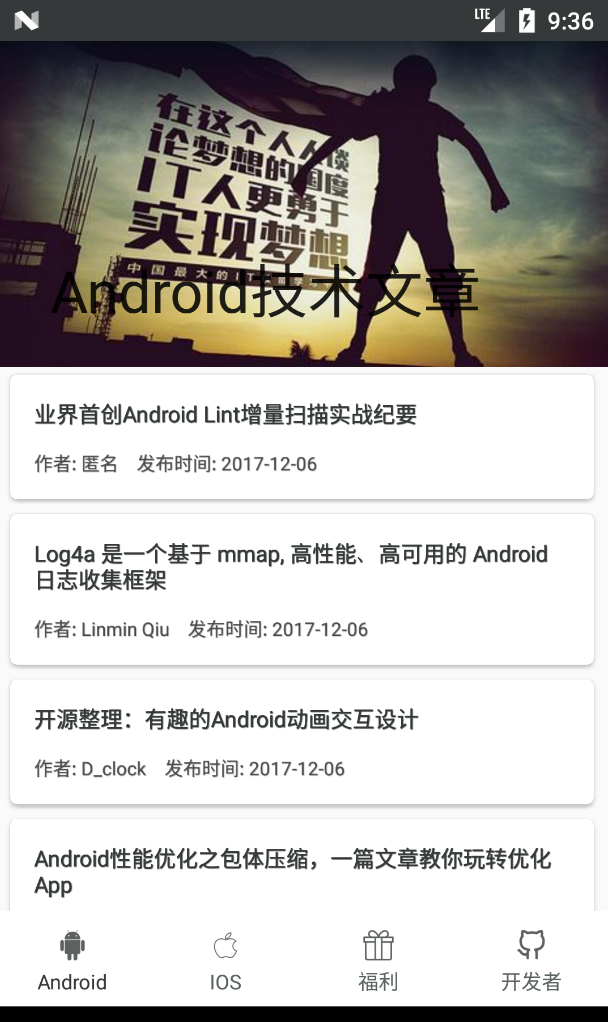
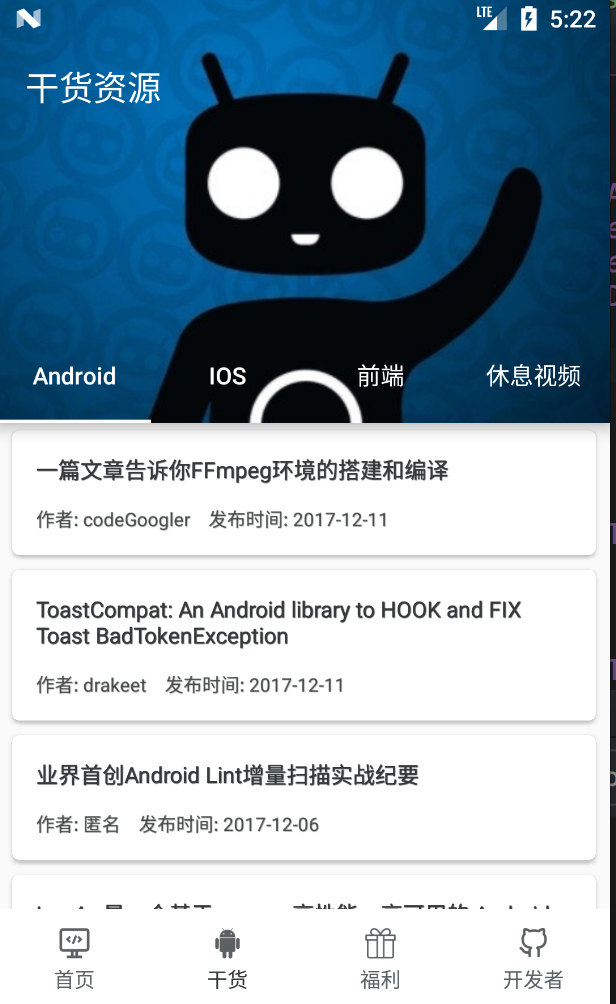
干货界面改成Tab分类

diff --git a/app/src/main/java/com/edu/hrbeu/jygankclient/view/fragment/SourceFragment.kt b/app/src/main/java/com/edu/hrbeu/jygankclient/view/fragment/SourceFragment.kt
@@ -1,0 +1,65 @@
+package com.edu.hrbeu.jygankclient.view.fragment
+
+import android.arch.lifecycle.LifecycleFragment
+import android.os.Bundle
+import android.support.v4.view.ViewPager
+import android.view.LayoutInflater
+import android.view.View
+import android.view.ViewGroup
+import cn.hugeterry.coordinatortablayout.CoordinatorTabLayout
+import com.edu.hrbeu.jygankclient.R
+import com.edu.hrbeu.jygankclient.view.adapter.PagerAdapter
+import com.orhanobut.logger.Logger
+import kotlinx.android.synthetic.main.fragment_source.*
+
+/**
+ * JYGod丶 创建于 17/12/11 下午1:49
+ */
+class SourceFragment : LifecycleFragment() {
+
+    private val mTitles = listOf( "Android", "IOS", "前端", "休息视频")
+    private val mTypes = listOf( "Android", "iOS", "前端", "休息视频")
+    private val mImageArray = intArrayOf(R.drawable.pic_android,R.drawable.pic_ios
+            , R.drawable.pic_js, R.drawable.pic_bili)
+
+    private val mFragments = mutableListOf<LifecycleFragment>()
+
+    companion object {
+        val TAG = "SourceFragment"
+    }
+
+    override fun onCreate(savedInstanceState: Bundle?) {
+        super.onCreate(savedInstanceState)
+    }
+
+
+    override fun onCreateView(inflater: LayoutInflater, container: ViewGroup?, savedInstanceState: Bundle?): View? {
+        return inflater.inflate(R.layout.fragment_source, container, false)
+    }
+
+    override fun onActivityCreated(savedInstanceState: Bundle?) {
+        super.onActivityCreated(savedInstanceState)
+        for (title in mTitles) {
+            val fragment = AndroidFragment()
+            val bundle = Bundle()
+            bundle.putString(AndroidFragment.TITLE, mTypes[mTitles.indexOf(title)])
+            fragment.arguments = bundle
+            mFragments.add(fragment)
+        }
+//        viewPager.offscreenPageLimit = 5
+        viewPager.adapter = PagerAdapter(childFragmentManager, mFragments, mTitles)
+        coorTablayout.setTranslucentStatusBar(activity)
+                .setTitle("干货资源")
+                .setBackEnable(false)
+                .setImageArray(mImageArray)
+                .setupWithViewPager(viewPager)
+
+    }
+
+    override fun onDestroy() {
+        super.onDestroy()
+        mFragments.removeAll(mFragments)
+    }
+
+
+}

diff --git a/app/src/main/java/com/edu/hrbeu/jygankclient/view/activity/MainActivity.kt b/app/src/main/java/com/edu/hrbeu/jygankclient/view/activity/MainActivity.kt
@@ -7,6 +7,7 @@ import android.support.v7.app.AppCompatActivity
 import android.os.Bundle
 import com.edu.hrbeu.jygankclient.R
 import com.edu.hrbeu.jygankclient.view.fragment.AndroidFragment
+import com.edu.hrbeu.jygankclient.view.fragment.SourceFragment
 import com.edu.hrbeu.jygankclient.view.fragment.WelfareFragment
 import kotlinx.android.synthetic.main.activity_main.*
 import me.majiajie.pagerbottomtabstrip.item.BaseTabItem
@@ -20,9 +21,9 @@ class MainActivity : AppCompatActivity(), LifecycleRegistryOwner {
 
     private var lifeRegister = LifecycleRegistry(this)
     private val fragmentList = listOf(
-            AndroidFragment(), WelfareFragment())
-    private val TAG_ANDROID = "Android"
-    private val TAG_IOS = "IOS"
+            SourceFragment(), WelfareFragment())
+    private val TAG_ANDROID = "首页"
+    private val TAG_IOS = "干货"
     private val TAG_WELFARE = "福利"
     private val TAG_DEVELOPER = "开发者"
 
@@ -43,14 +44,15 @@ class MainActivity : AppCompatActivity(), LifecycleRegistryOwner {
     private fun initBottomBar() {
         val navController = bottomTab
                 .custom()
-                .addItem(newItem(R.drawable.bottom_android, R.drawable.bottom_android_pressed, TAG_ANDROID))
-                .addItem(newItem(R.drawable.bottom_ios, R.drawable.bottom_ios_pressed, TAG_IOS))
+                .addItem(newItem(R.drawable.bottom_new, R.drawable.bottom_new_pressed, TAG_ANDROID))
+                .addItem(newItem(R.drawable.bottom_android, R.drawable.bottom_android_pressed, TAG_IOS))
                 .addItem(newItem(R.drawable.bottom_welfare, R.drawable.bottom_welfare_pressed, TAG_WELFARE))
                 .addItem(newItem(R.drawable.bottom_git, R.drawable.bottom_git_pressed, TAG_DEVELOPER))
                 .build()
+        navController.setSelect(1)
         navController.addTabItemSelectedListener(object : OnTabItemSelectedListener {
             override fun onSelected(index: Int, old: Int) {
-                if (index == 0) {
+                if (index == 1) {
                     supportFragmentManager.beginTransaction()
                             .replace(R.id.main_container, fragmentList[0], AndroidFragment.TAG)
                             .commit()

diff --git a/app/src/main/java/com/edu/hrbeu/jygankclient/view/fragment/AndroidFragment.kt b/app/src/main/java/com/edu/hrbeu/jygankclient/view/fragment/AndroidFragment.kt
@@ -26,6 +26,7 @@ class AndroidFragment : LifecycleFragment() {
 
     companion object {
         val TAG = "AndroidFragment"
+        val TITLE = "title"
     }
 
     override fun onCreateView(inflater: LayoutInflater?, container: ViewGroup?, savedInstanceState: Bundle?): View? {
@@ -34,17 +35,18 @@ class AndroidFragment : LifecycleFragment() {
 
     override fun onActivityCreated(savedInstanceState: Bundle?) {
         super.onActivityCreated(savedInstanceState)
-        toolbar.setTitleTextColor(context.resources.getColor(R.color.pureWhite))
         initRecycler()
+        val bundel = arguments
+        val type = bundel.getString("title")
         viewModel = ViewModelProviders.of(this).get(AndroidViewModel::class.java)
-        viewModel.getList(PAGE.toString())?.observeForever { list ->
+        viewModel.getList(PAGE.toString(), type)?.observeForever { list ->
             list?.let {
                 mAdapter.addData(it)
                 mAdapter.loadMoreComplete()
             }
         }
         mAdapter.setOnLoadMoreListener {
-            viewModel.getList((PAGE++).toString())
+            viewModel.getList((PAGE++).toString(), type)
         }
     }
 

diff --git a/app/src/main/java/com/edu/hrbeu/jygankclient/view/adapter/PagerAdapter.kt b/app/src/main/java/com/edu/hrbeu/jygankclient/view/adapter/PagerAdapter.kt
@@ -1,0 +1,33 @@
+package com.edu.hrbeu.jygankclient.view.adapter
+
+import android.support.v4.app.Fragment
+import android.support.v4.app.FragmentManager
+import android.support.v4.app.FragmentPagerAdapter
+import com.orhanobut.logger.Logger
+
+/**
+ * JYGod丶 创建于 17/12/11 下午1:59
+ */
+class PagerAdapter : FragmentPagerAdapter {
+
+    private var mFragments: List<Fragment>? = null
+    private var mTitles: List<String>? = null
+
+    constructor(fm: FragmentManager?, mFragments: List<Fragment>?, mTitles: List<String>?) : super(fm) {
+        this.mFragments = mFragments
+        this.mTitles = mTitles
+    }
+
+    override fun getPageTitle(position: Int): CharSequence {
+//        val pos = if (position < 4) position else 3
+        return mTitles!![position]
+    }
+
+    override fun getItem(position: Int): Fragment {
+        return mFragments!![position]
+    }
+
+    override fun getCount(): Int {
+        return mFragments!!.size
+    }
+}

diff --git a/app/src/main/java/com/edu/hrbeu/jygankclient/repository/AndroidRepo.kt b/app/src/main/java/com/edu/hrbeu/jygankclient/repository/AndroidRepo.kt
@@ -18,8 +18,8 @@ class AndroidRepo @Inject constructor(
         private val roomDataSource: AppDatabase,
         private val remoteDataSource: RemoteDataSource) {
 
-    fun loadList(page: String): LiveData<List<AndroidModel>>? {
-        remoteDataSource.loadAndroidList(page)
+    fun loadList(page: String, type: String): LiveData<List<AndroidModel>>? {
+        remoteDataSource.loadAndroidList(page, type)
                 .subscribeOn(Schedulers.io())
                 .observeOn(AndroidSchedulers.mainThread())
                 .subscribe({ entity ->
@@ -27,7 +27,7 @@ class AndroidRepo @Inject constructor(
                         roomDataSource.androidDao().insertList(resList)
                     }
                 }, { t: Throwable -> t.printStackTrace() })
-        return roomDataSource.androidDao().selectList()
+        return roomDataSource.androidDao().selectList(type)
     }
 
 }

diff --git a/app/src/main/java/com/edu/hrbeu/jygankclient/repository/room/dao/AndroidDao.kt b/app/src/main/java/com/edu/hrbeu/jygankclient/repository/room/dao/AndroidDao.kt
@@ -14,8 +14,8 @@ import com.edu.hrbeu.jygankclient.repository.room.model.AndroidModel
 @Dao
 interface AndroidDao {
 
-    @Query("select * from android order by publishedAt desc")
-    fun selectList(): LiveData<List<AndroidModel>>
+    @Query("select * from android where type = :arg0 order by publishedAt desc")
+    fun selectList(type: String): LiveData<List<AndroidModel>>
 
     @Insert(onConflict = OnConflictStrategy.REPLACE)
     fun insertList(list: List<AndroidModel>)

diff --git a/app/src/main/java/com/edu/hrbeu/jygankclient/repository/remote/api/RemoteService.kt b/app/src/main/java/com/edu/hrbeu/jygankclient/repository/remote/api/RemoteService.kt
@@ -11,8 +11,8 @@ import retrofit2.http.Path
  */
 interface RemoteService {
 
-    @GET("data/Android/10/{page}")
-    fun getAndroidList(@Path("page") page:String):Observable<AndroidEntity>
+    @GET("data/{type}/10/{page}")
+    fun getAndroidList(@Path("page") page:String, @Path("type") type:String):Observable<AndroidEntity>
 
     @GET("data/福利/10/{page}")
     fun getWelfareList(@Path("page") page:String):Observable<WelfareEntity>

diff --git a/app/src/main/java/com/edu/hrbeu/jygankclient/view/viewmodel/AndroidViewModel.kt b/app/src/main/java/com/edu/hrbeu/jygankclient/view/viewmodel/AndroidViewModel.kt
@@ -23,8 +23,8 @@ class AndroidViewModel : ViewModel() {
 
     private fun initializeDagger() = App.appComponent.injectAndroid(this)
 
-    fun getList(page: String): LiveData<List<AndroidModel>>? {
-        return androidRepo.loadList(page)
+    fun getList(page: String, type: String): LiveData<List<AndroidModel>>? {
+        return androidRepo.loadList(page, type)
     }
 
 }

diff --git a/app/src/main/java/com/edu/hrbeu/jygankclient/repository/remote/RemoteDataSource.kt b/app/src/main/java/com/edu/hrbeu/jygankclient/repository/remote/RemoteDataSource.kt
@@ -12,7 +12,7 @@ import javax.inject.Inject
  */
 class RemoteDataSource @Inject constructor(private val service: RemoteService) {
 
-    fun loadAndroidList(page: String) = service.getAndroidList(page)
+    fun loadAndroidList(page: String, type: String) = service.getAndroidList(page, type)
 
     fun loadWelfareList(page: String) = service.getWelfareList(page)
 }
